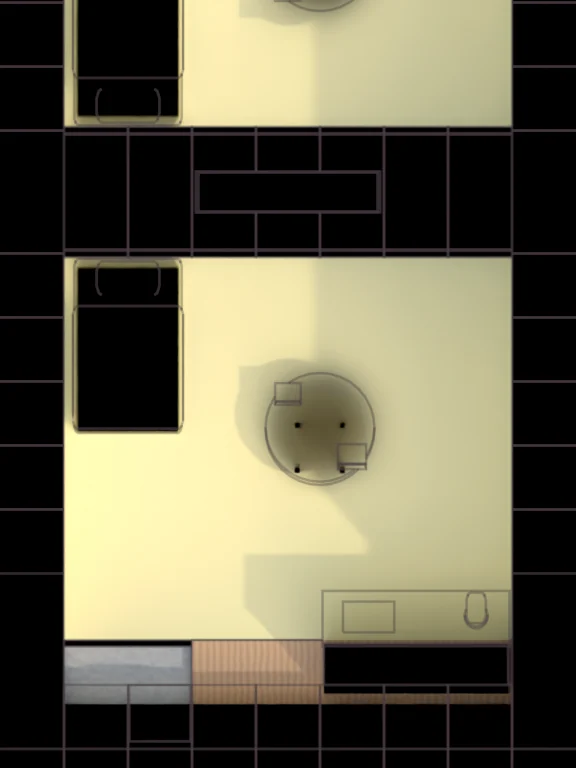
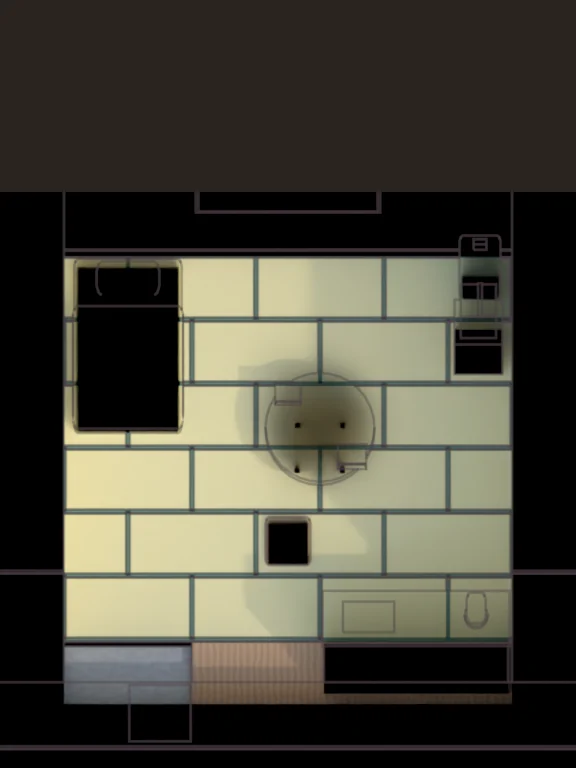
WIP: apartment cutaway, seated Hiro, lighter overlays, docs
Claude-Session: https://claude.ai/code/session_01JbjSHEfJ9x5T91LCWDYawn

diff --git a/walk/walk.css b/walk/walk.css
@@ -37,9 +37,9 @@ html, body {
   inset: 0;
   background:
     radial-gradient(120% 80% at 85% 0%, rgba(255, 214, 160, 0.20), transparent 60%),
-    radial-gradient(140% 100% at 50% 50%, transparent 55%, rgba(20, 16, 40, 0.28));
+    radial-gradient(150% 110% at 50% 50%, transparent 60%, rgba(20, 16, 40, 0.16));
 }
-.tilt { height: 18%; backdrop-filter: blur(2.2px); -webkit-backdrop-filter: blur(2.2px); }
+.tilt { height: 14%; backdrop-filter: blur(1.4px); -webkit-backdrop-filter: blur(1.4px); }
 #tilt-top { top: 0; -webkit-mask-image: linear-gradient(to bottom, #000, transparent); mask-image: linear-gradient(to bottom, #000, transparent); }
 #tilt-bottom { bottom: 0; -webkit-mask-image: linear-gradient(to top, #000, transparent); mask-image: linear-gradient(to top, #000, transparent); }
 

diff --git a/walk/js/maps.js b/walk/js/maps.js
@@ -144,6 +144,10 @@ function buildApartment() {
   add({ kind: 'item', icon: 'phrasebook', x: 4, y: 3, use: 'talk', script: 'phrasebook' });
   add({ kind: 'item', icon: 'bible', x: 5, y: 4, use: 'talk', script: 'bible' });
   add({ kind: 'counter', x: 5, y: 7, w: 3, h: 1 });
+  // You arrived three days ago: still living out of a suitcase and boxes.
+  add({ kind: 'decor', type: 'suitcase', x: 7, y: 1 });
+  add({ kind: 'decor', type: 'boxes', x: 7, y: 2 });
+  add({ kind: 'decor', type: 'zabuton', block: false, x: 4, y: 5 });
   add({ kind: 'door', x: 2, y: 8, to: 'town', tx: 31, ty: 47, dir: 'down' });
   return { id: 'apartment', name: 'Your apartment', w: W, h: H, ground: g, things, npcs: [], wires: [], outdoors: false };
 }

diff --git a/walk/art/build_scene.py b/walk/art/build_scene.py
@@ -126,7 +126,7 @@ M = {
     'd': mat('dirt', (0.45, 0.35, 0.22), 0.95, noise={'c2': (0.52, 0.42, 0.28), 'scale': 6}),
     'h': mat('grass_under_hedge', (0.16, 0.30, 0.08), 0.95),
     'n': mat('grass_fence', (0.20, 0.38, 0.09), 0.95, noise={'c2': (0.33, 0.48, 0.12), 'scale': 2.5}),
-    't': mat('tatami', (0.55, 0.52, 0.28), 0.8, wave={'c2': (0.62, 0.58, 0.33), 'scale': 30, 'distortion': 0, 'dir': 'Y'}),
+    't': mat('tatami', (0.58, 0.55, 0.30), 0.8, wave={'c2': (0.66, 0.62, 0.36), 'scale': 90, 'distortion': 0, 'dir': 'Y'}, bump=0.3),
     'f': mat('woodfloor', (0.36, 0.22, 0.12), 0.5, wave={'c2': (0.44, 0.29, 0.16), 'scale': 3, 'distortion': 3, 'dir': 'X'}),
     'k': mat('genkan', (0.32, 0.32, 0.31), 0.9, noise={'c2': (0.38, 0.38, 0.36), 'scale': 10}),
     'w': mat('plaster_floor', (0.4, 0.37, 0.32), 0.9),
@@ -671,6 +671,16 @@ def build_decor(t, n, x0, x1, ys, yn):
         box(n + '_body', cx - 0.25, cy - 0.2, 0, cx + 0.25, cy + 0.2, 1.25, RED, bevel=0.05)
         box(n + '_top', cx - 0.28, cy - 0.23, 1.25, cx + 0.28, cy + 0.23, 1.33, RED, bevel=0.03)
         box(n + '_slot', cx - 0.15, cy - 0.21, 1.0, cx + 0.15, cy - 0.2, 1.06, DARK_METAL)
+    elif ty == 'suitcase':
+        box(n + '_case', cx - 0.32, cy - 0.2, 0, cx + 0.32, cy + 0.2, 0.75, mat('suitcase', (0.12, 0.28, 0.42), 0.4), bevel=0.05)
+        box(n + '_handle', cx - 0.1, cy - 0.04, 0.75, cx + 0.1, cy + 0.04, 0.85, DARK_METAL)
+    elif ty == 'boxes':
+        cardboard = mat('cardboard', (0.55, 0.40, 0.24), 0.9)
+        box(n + '_b1', cx - 0.4, cy - 0.35, 0, cx + 0.35, cy + 0.35, 0.55, cardboard)
+        box(n + '_b2', cx - 0.3, cy - 0.25, 0.55, cx + 0.25, cy + 0.25, 0.95, cardboard)
+        box(n + '_tape', cx - 0.03, cy - 0.26, 0.95, cx + 0.03, cy + 0.26, 0.955, mat('tape', (0.8, 0.75, 0.6), 0.4))
+    elif ty == 'zabuton':
+        box(n, cx - 0.35, cy - 0.35, 0, cx + 0.35, cy + 0.35, 0.1, mat('zabuton', (0.55, 0.18, 0.20), 0.9), bevel=0.05)
     elif ty == 'plant':
         cyl(n + '_pot', cx, cy, 0, 0.4, 0.22, mat('pot', (0.45, 0.22, 0.12), 0.8), n=12)
         for j in range(4):
@@ -700,24 +710,31 @@ def build_wires():
                 ob.pass_index = OVERHEAD
 
 def build_interior_walls():
-    """Apartment: tall north/side walls, a cut-away south wall."""
-    wm = mat('plaster', (0.86, 0.83, 0.76), 0.9)
-    trim = WOOD_DARK
-    g = MAP['ground']
-    for my in range(H):
-        for mx in range(W):
-            if g[my][mx] != 'w':
-                continue
-            south = my == H - 1
-            hz = 0.35 if south else 2.4
-            new_sprite(my)
-            box('wall', mx, by(my + 1), 0, mx + 1, by(my), hz, wm)
-            if not south and my == 0 and 1 <= mx <= W - 2:
-                box('trim', mx, by(my + 1) - 0.02, 0, mx + 1, by(my + 1), 0.12, trim)
-    # window on the north wall with morning light
+    """Apartment as a cut-away model: tall north/side walls, a low south wall,
+    dark caps where the walls are 'cut', tatami with cloth borders."""
+    wm = mat('plaster', (0.80, 0.76, 0.68), 0.9, noise={'c2': (0.74, 0.70, 0.62), 'scale': 6})
+    cap = mat('wall_cap', (0.16, 0.11, 0.08), 0.6)
+    walls = [  # x0, y0, x1, y1 (map tiles), height
+        (0, 0, W, 1, 2.4), (0, 1, 1, H - 1, 2.4), (W - 1, 1, W, H - 1, 2.4), (0, H - 1, W, H, 0.35)]
+    for x0, y0, x1, y1, hz in walls:
+        new_sprite(y1 - 1)
+        box('wall', x0, by(y1), 0, x1, by(y0), hz, wm)
+        box('cap', x0, by(y1), hz, x1, by(y0), hz + 0.05, cap)
     new_sprite(0)
-    window('north_window', 3.1, by(1) + 0.0, 0.9, 2.8, 1.1, lit=True)
+    box('trim', 1, by(1) - 0.02, 0, W - 1, by(1), 0.12, WOOD_DARK)
+    window('north_window', 3.1, by(1), 0.9, 2.8, 1.1, lit=True)
     box('shoji_rail', 3.0, by(1) - 0.04, 2.05, 6.0, by(1), 2.12, WOOD)
+    # tatami borders (heri): mats are 2×1 tiles, rows offset like real layouts
+    heri = mat('heri', (0.10, 0.18, 0.12), 0.7)
+    g = MAP['ground']
+    tat = [(mx, my) for my in range(H) for mx in range(W) if g[my][mx] == 't']
+    xs = sorted({mx for mx, _ in tat}); ys = sorted({my for _, my in tat})
+    tx0, tx1, ty0, ty1 = xs[0], xs[-1] + 1, ys[0], ys[-1] + 1
+    for my in range(ty0, ty1 + 1):
+        box('heri', tx0, by(my) - 0.03, 0.0, tx1, by(my) + 0.03, 0.012, heri, ground=True)
+    for my in range(ty0, ty1):
+        for mx in range(tx0 + (my % 2), tx1 + 1, 2):
+            box('heri', mx - 0.03, by(my + 1), 0.0, mx + 0.03, by(my), 0.012, heri, ground=True)
 
 # ── Build ───────────────────────────────────────────────────────────────────
 build_ground()
@@ -738,7 +755,7 @@ build_wires()
 # ── Light, world, camera ────────────────────────────────────────────────────
 sun = bpy.data.objects.new('sun', bpy.data.lights.new('sun', 'SUN'))
 COL.objects.link(sun)
-sun.data.energy = 4.2 if MAP_ID == 'town' else 2.2
+sun.data.energy = 4.2 if MAP_ID == 'town' else 1.4
 sun.data.angle = math.radians(2.5)
 sun.data.color = (1.0, 0.90, 0.78)
 # morning sun low in the south-east, so shadows fall north-west and are visible
@@ -760,7 +777,7 @@ if MAP_ID == 'apartment':
     # soft fill from the window + room bounce
     area = bpy.data.objects.new('fill', bpy.data.lights.new('fill', 'AREA'))
     COL.objects.link(area)
-    area.data.energy = 220
+    area.data.energy = 110
     area.data.size = 6
     area.data.color = (1.0, 0.93, 0.82)
     area.location = (4.5, by(4.5), 4.0)

diff --git a/walk/art/split_layers.py b/walk/art/split_layers.py
@@ -35,12 +35,15 @@ def grade(rgb):
 
 
 ground = grade(Image.open(os.path.join(SRC, 'ground.png')).convert('RGB'))
-# Above row 0 there is no map, only headroom for tall roofs. Mirror the first
-# rows of the map up into it so the camera never shows a black band.
+# Above row 0 there is no map, only headroom for tall roofs. Outdoors, mirror
+# the first rows of the map up into it so the camera never shows a black band;
+# indoors, it's the dark around the cut-away room.
 margin = int(meta['top'] * 32 * meta['scale'])
-if margin:
+if margin and meta['map'] == 'town':
     strip = ground.crop((0, margin, ground.width, margin * 2)).transpose(Image.FLIP_TOP_BOTTOM)
     ground.paste(strip, (0, 0))
+elif margin:
+    ground.paste((42, 35, 32), (0, 0, ground.width, margin))
 objects = Image.open(os.path.join(SRC, 'objects.png')).convert('RGBA')
 alpha = objects.getchannel('A')
 objects = grade(objects.convert('RGB'))

diff --git a/walk/art/build_characters.py b/walk/art/build_characters.py
@@ -125,10 +125,10 @@ def person(look, phase=0.0, walking=False, sit=False, arms=None, cap=False, bun=
     if sit:
         hip_z = 0.5
         for side in (-1, 1):
-            knee = (side * 0.1, -0.28, 0.5)
+            knee = (side * 0.11, -0.3, 0.48)
             limb('thigh', (side * 0.09, 0.0, hip_z), knee, 0.075, 0.07, L['legs'])
-            limb('shin', knee, (side * 0.1, -0.32, 0.08), 0.065, 0.06, L['legs'])
-            blob('shoe', (side * 0.1, -0.38, 0.05), 0.07, SHOE, scale=(1, 1.5, 0.7))
+            limb('shin', knee, (side * 0.11, -0.36, 0.1), 0.065, 0.06, L['legs'])
+            blob('shoe', (side * 0.11, -0.42, 0.06), 0.07, SHOE, scale=(1, 1.5, 0.7))
     else:
         for side, sw in ((-1, s), (1, -s)):
             foot = (side * 0.09, -0.16 * sw, 0.07 + max(0, sw) * 0.05)

diff --git a/ROADMAP.md b/ROADMAP.md
@@ -184,3 +184,4 @@ Append new entries here as roadmap-level decisions are made. Date format YYYY-MM
 - **2026-05-29 (v37)** — Shipped two grounding additions (Jacob's request): (1) **Cinematic travel** — every trip now plays a ~5s full-screen train-interior video (`assets/video/travel.MP4`) via `showTravelOverlay`; all trips route through a new `main.runTravel()` helper (rail pills, People "Visit", and the new Go-Home button). Decision: full ~5s, **not skippable** for now (a skip/off toggle is queued); `TRAVEL_VIDEOS` array in `ui.js` is the seam for adding more clips for variety. (2) **Go-home end-of-day gate** — the day can only end from home. When the **evening ends** while away from home, `endPhase` sets `flags.pendingGoHome` + fires `onGoHomeReady` → a forced `goHome` modal (🌙 "It's getting late" + **Go Home**, no dismissal); trying any action re-surfaces it. The trip home is **free** (`travelTo(loc, free)` / `doTravel(loc, {free})` skip the time cost since the phase is spent); arriving home auto-fires the reflection. Evenings already at the apartment reflect immediately (unchanged). Save migration adds `flags.pendingGoHome` defaulting false; no wipe. APP_VERSION/sw cache → v37.
 - **2026-05-24 (third update same day)** — Reversed the earlier "locations are flavor" call. **Travel is now real navigation.** `state.location` is where you ARE; actions filter by it. Travel costs time only (destination-based: home/station/shrine = 1, café/park = 2, onsen = 3). Each morning resets you to apartment. People-tab cards have Visit / Heart-to-Heart buttons that auto-travel before running the action. Same session also shipped: notification queue (fixes end-of-day-vs-popup race), Journal tab (replaces Goals, populated by milestones + meets + stage advances + lang level-ups), stage-advance notifications + per-stage moment text, and a "no conflicting cost+reward on same stat" rule. APP_VERSION bumped to 17.
 - **2026-10-18** — **Exploring a from-scratch rethink: a walking game.** Jacob asked for a 10× rethink. Direction being tested: a top-down walkable neighborhood based on **Kunitachi** (where Jacob served), told over a **two-year term with an ending + extended free play afterwards**. Core ideas: (1) the world starts unreadable — signs/speech are Japanese and become readable as you learn words; (2) **words are the currency** — conversation options are locked until you know the words, so you can see what you *want* to say before you can say it; (3) NPCs keep schedules and lives you don't control (miss Hiro's bench time and he's gone); (4) time moves only when you do. Built a throwaway vertical slice, **"One Morning"** (`walk/`), with code-drawn placeholder art, to test whether walking feels better on iPhone before committing. The current game stays live and untouched. **Art plan if it proceeds:** build the town in 3D and render it to 2D ("miniature diorama" look): Tripo Studio for characters (same pipeline as the champion repo — Studio website via Claude in Chrome, no API), Blender scripts for props/buildings/style-unification/lighting/seasons, and Codex/image tools only for conversation portraits. Sign text is always rendered by the game, never baked into art (needed for the readable-signs mechanic). Decision pending on Jacob's iPhone playtest.
+- **2026-10-18 (later)** — **Walking prototype gets real art.** Jacob: walkable is the right call, but it lost the beautiful look and needs to be "exponentially better." Built the art pipeline in `walk/art/`: Blender (headless) builds the Kunitachi map in 3D straight from `walk/js/maps.js` — houses with tiled hip/gable roofs, block walls, balcony laundry, the red-gabled station, cherry trees from many blossom clusters, hedges, utility poles with sagging wires, vegetable plots, gutters — and renders it in the classic top-down RPG **oblique view** (ground square, fronts stand up; height leans up the screen by K=0.85). Three passes (ground with shadows / standing objects / object ids) are split into a ground image plus one sprite per object, so the game sorts the player in front of or behind each thing and fades buildings you walk behind (Stardew-style). Characters (player walk cycle ×4 directions, the old man feeding pigeons, the neighbor sweeping, a cycling student) are rendered with the same camera and light. Sign text stays game-drawn (needed for the readable-signs mechanic). Decisions taken along the way: camera changed from a tilted 3D view to oblique because roofs dominated and hid the lane; houses south of the lane moved back behind vegetable plots so the street stays visible; Freestyle outlines + warm grade + CSS tilt-shift for a "miniature town" feel rather than pixelization (pixelizing didn't help — detail did). Art total ≈2.2 MB (WebP). Next: Jacob's iPhone playtest.

diff --git a/PROGRESS.md b/PROGRESS.md
@@ -40,7 +40,8 @@ Status of what's shipped + ideas backlog. Architecture lives in `CLAUDE.md`. Des
 | Editorial day-beat header + dayBeats.json phrases (v36) | ✅ | ✅ 20 lines | ❌ not yet |
 | Cinematic travel overlay — ~5s train video on every trip (v37) | ✅ | ✅ 1 clip (travel.MP4) | ❌ not yet |
 | Go-home end-of-day gate — must travel home before the day ends (v37) | ✅ | ✅ | ❌ not yet |
-| **Walking prototype "One Morning" (`walk/`) — Kunitachi map, tap-to-walk, readable signs, word-locked choices, Hiro + neighbor schedules** | ✅ prototype | ⚠ placeholder art | ❌ not yet |
+| **Walking prototype "One Morning" (`walk/`) — Kunitachi map, tap-to-walk, readable signs, word-locked choices, Hiro + neighbor schedules** | ✅ prototype | ✅ Blender-rendered art (v2) | ⚠ v1 played ("ok, right call") |
+| Walk art pipeline (`walk/art/`) — Blender town/apartment/characters → depth-sorted sprites, fade-behind, tilt-shift | ✅ | ⚠ first pass | ❌ not yet |
 
 ---
 
@@ -50,6 +51,7 @@ Status of what's shipped + ideas backlog. Architecture lives in `CLAUDE.md`. Des
 - **Touch targets** — ✅ done in v36 (⚙ gear + ✕ settings-close are now 44px). Re-audit any remaining small hit areas on iPhone.
 - **Faith balance** — faith regen feels fast enough that costs are trivial; consider raising costs or slowing regen
 - **Payday countdown** — no way to know when support arrives; add "Support in X days" somewhere
+- **Walk prototype art polish** — Hiro reads as standing behind the bench rather than sitting on it; Daigaku-dōri is wide and empty (cars? more cyclists?); station facade a bit dark at the top of the screen; character hair reads as a helmet. Re-render after tweaks (see `docs/files.md` → walk/art).
 - **Travel popup skip/off toggle** — v37 ships the ~5s travel video as always-full / not-skippable. Add a Settings toggle (and/or tap-to-skip) once it's been played enough to know the right default. More travel clips can be added to `TRAVEL_VIDEOS` in `js/ui.js` for variety.
 
 ---

diff --git a/docs/files.md b/docs/files.md
@@ -7,7 +7,7 @@ walk/js/main.js       — boot, render loop, tap-to-walk input, camera, pathing,
 walk/js/state.js      — prototype state (clock, known words, items, flags) + TILE/NOON/MIN_PER_TILE constants
 walk/js/maps.js       — town (Kunitachi sketch) + apartment maps, blocked(), findPath() BFS, npcPresent()
 walk/js/render.js     — draws the pre-rendered art: ground bands, depth-sorted sprites + people, fade-when-behind, power lines, sign plaques (text is always game-drawn), tap marker, petals
-walk/art/             — the art pipeline (Blender 4.2, run headless). Re-run it whenever maps.js changes:
+walk/art/             — the art pipeline (Blender 4.2, run headless; in a cloud session download it from download.blender.org/release/Blender4.2/ into /home/user/tools — CPU renders take ~25 min for the town, ~2 min for the apartment, ~3 min for characters). Re-run it whenever maps.js changes:
                           node walk/art/export_maps.mjs
                           blender -b --python walk/art/build_scene.py -- town <tmp>      (then apartment)
                           python3 walk/art/split_layers.py <tmp> walk/assets/town
